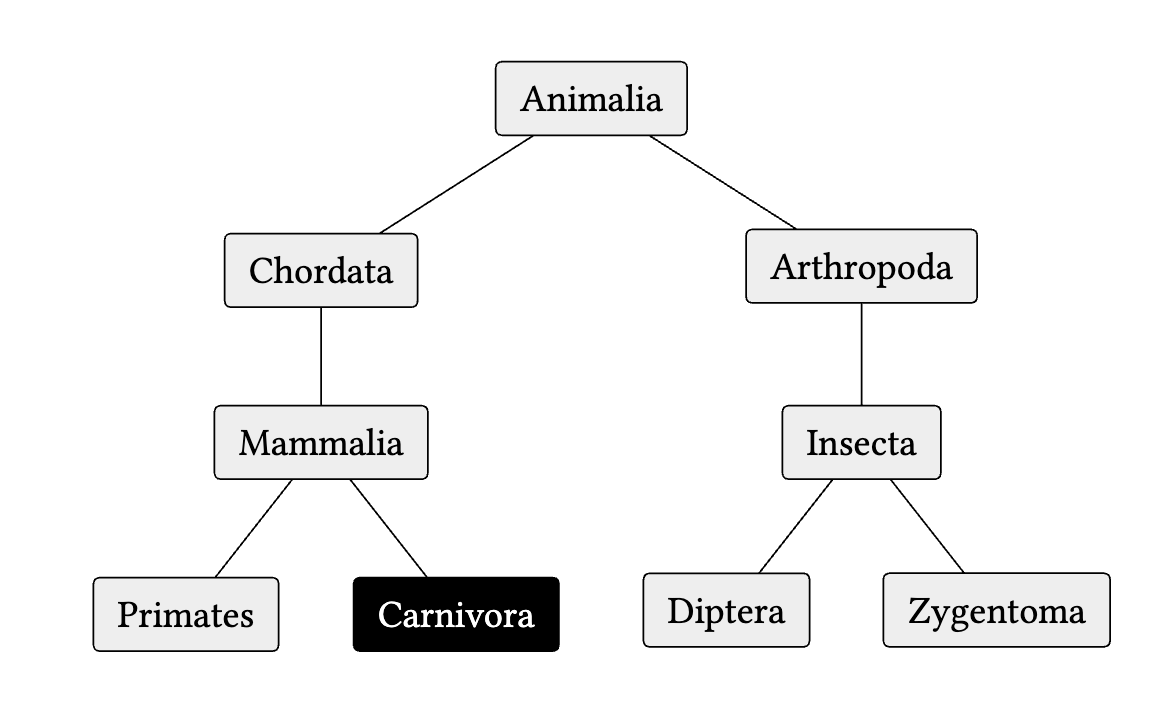
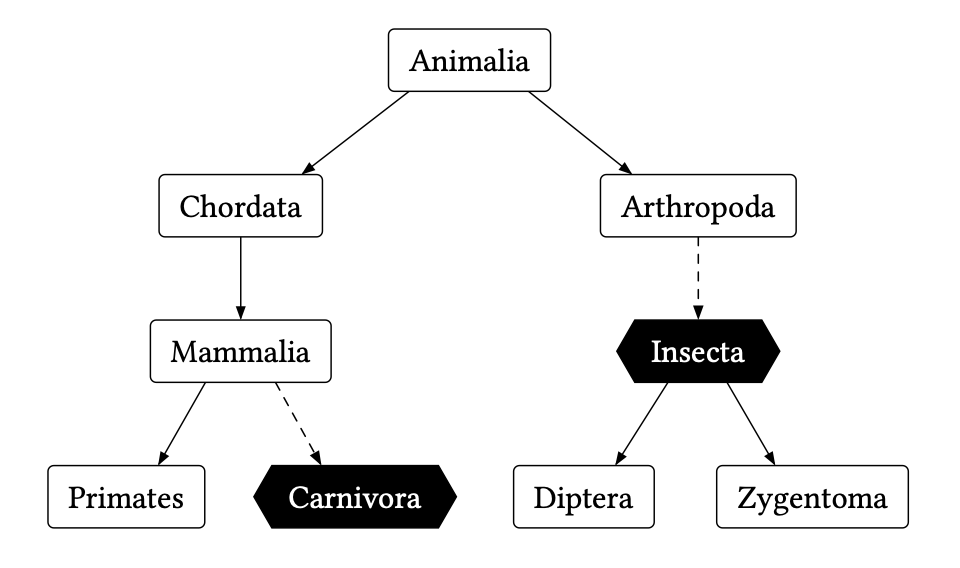
Migrated from cetz to fletcher

diff --git a/README.md b/README.md
@@ -1,16 +1,21 @@
 # treechery
 
-This user-friendly [Typst](https://typst.app/) package turns bullet lists into beautiful trees. Read the [`docs`](docs.pdf).
+This user-friendly [Typst](https://typst.app/) package turns bullet lists into beautiful [`fletcher`](https://typst.app/universe/package/fletcher) diagrams. Read the [`docs`](docs.pdf).
 
 <p align="center">
     <img src="images/example.png" width="500" alt="Example"/>
 </p>
 
 ```typ
-#import "@local/treechery:0.1.0": treechery, node
+#import "@local/treechery:0.1.0": tree, decorator, styling, shapes
 
-#show list: treechery
-#let strong = node(fill: black, text: white)
+#show list: tree
+#let strong = decorator(styling(
+	shape: shapes.hexagon, 
+	fill: black, 
+	text: white, 
+	arrow-stroke: (dash: "dashed")
+))
 
 - Animalia
 	- Chordata
@@ -18,7 +23,7 @@ This user-friendly [Typst](https://typst.app/) package turns bullet lists into b
 			- Primates
 			- Carnivora #strong
 	- Arthropoda
-		- Insecta
+		- Insecta #strong
 			- Diptera
 			- Zygentoma
 ```
